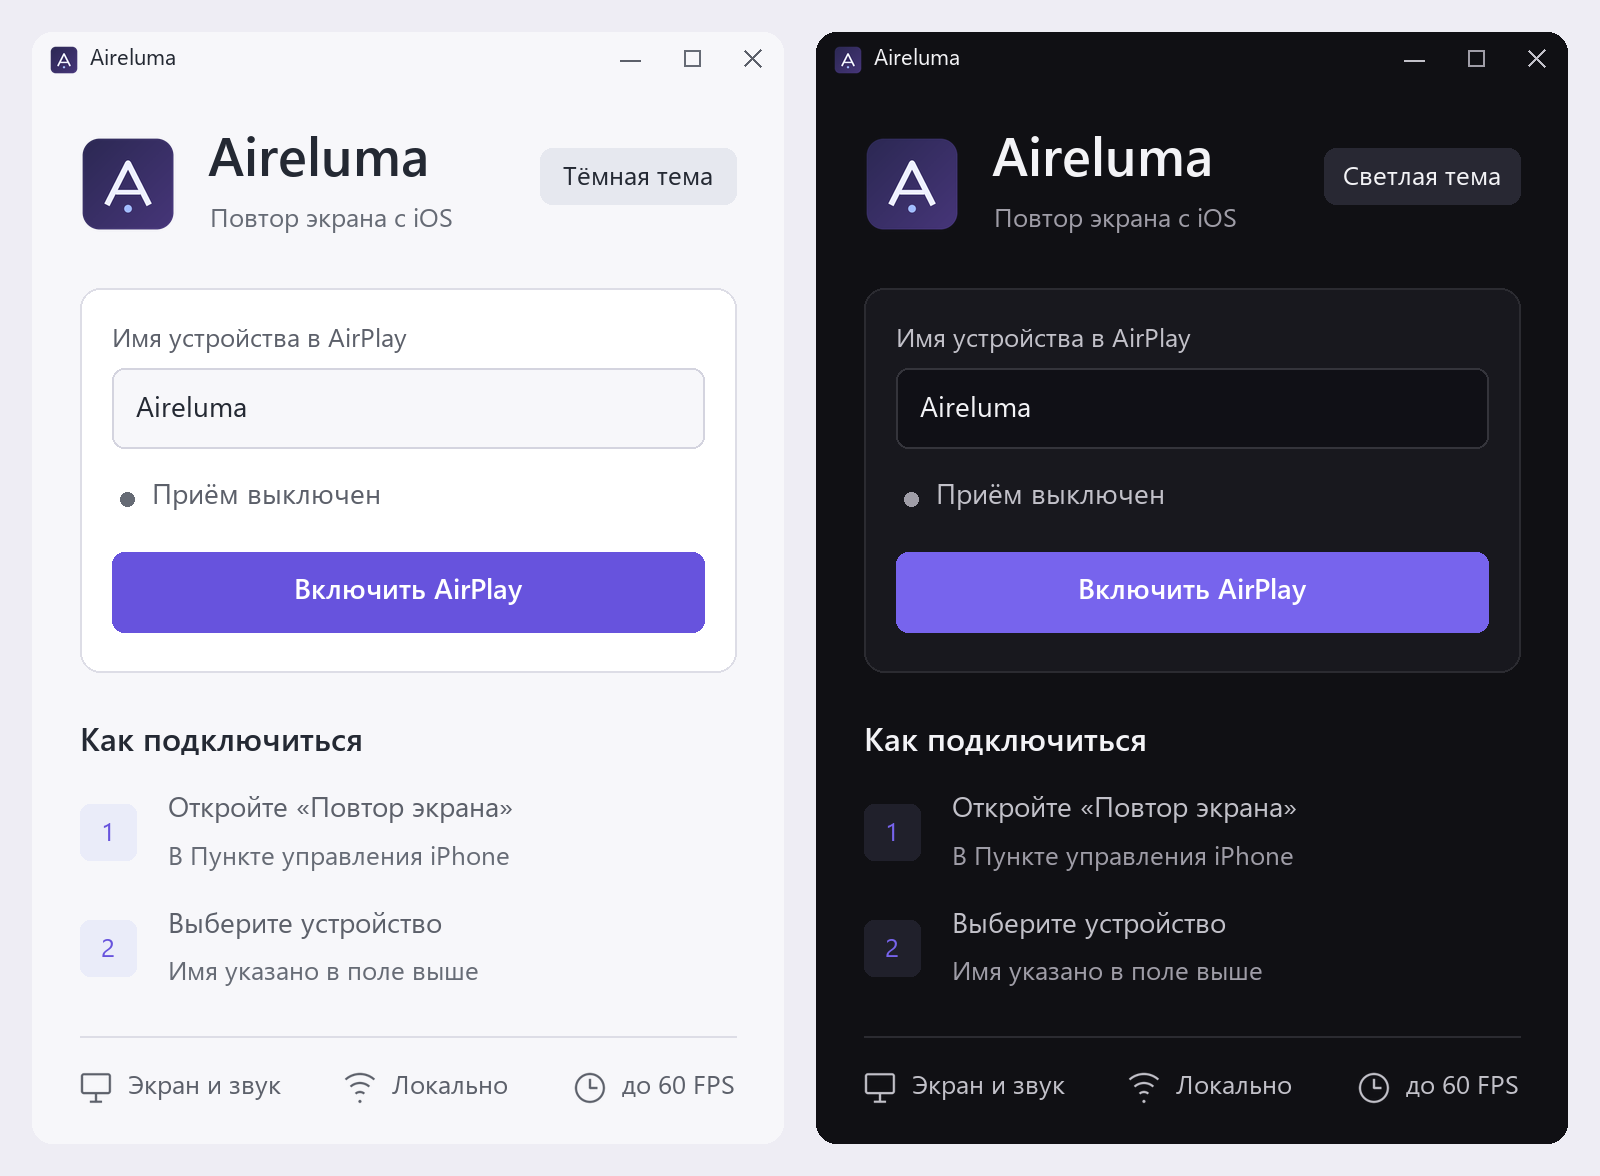
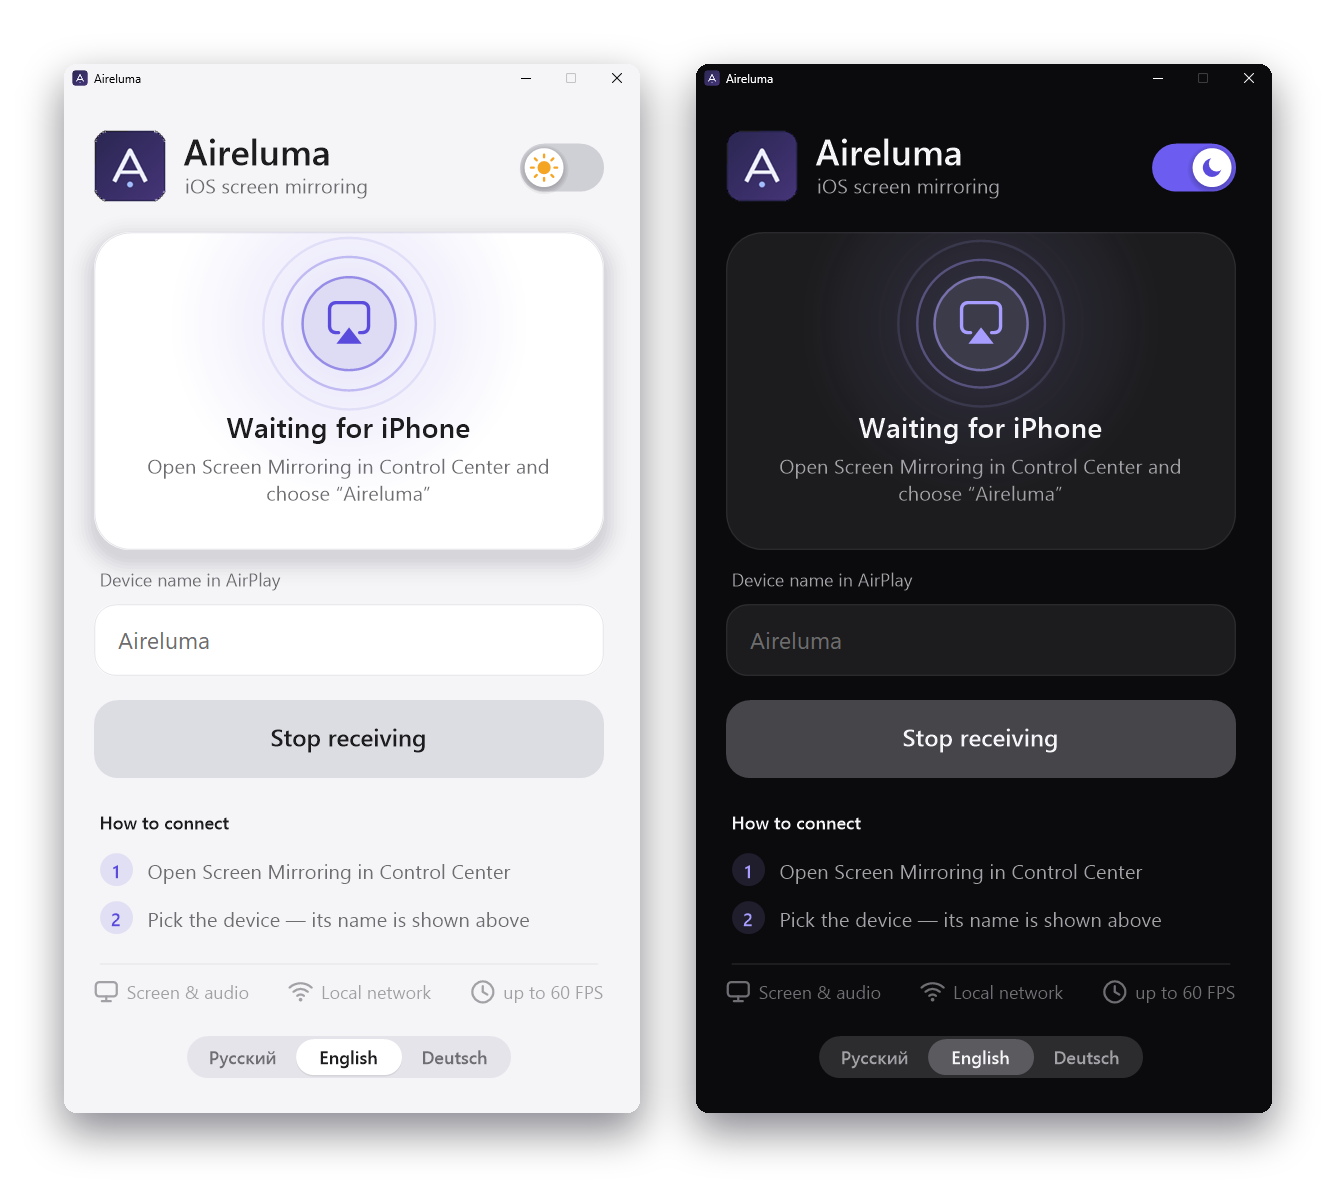
Update the README with screenshots and a GIF of the new interface
Replace the theme demo with real captures of the Windows interface: an animated tour (theme switch, language switch, starting reception) in English and Russian, side-by-side light and dark screenshots, and a three-language overview. Mention the language switch and the first-launch language rule in both READMEs. The old theme-switch-click.gif is removed since nothing references it. scripts/render-theme-demo.py still renders the old mock-up and would overwrite themes.png if it is run.

Changed region(s): [[0.0307, 0.0, 0.982, 0.9796], [0.3069, 0.8571, 0.3683, 0.8878]]

diff --git a/docs/README.ru.md b/docs/README.ru.md
@@ -9,13 +9,18 @@
 - Повтор экрана и звука iPhone по AirPlay в локальной сети.
 - Приём с запросом HEVC, разрешения до 4K и частоты до 60 FPS.
 - Светлая и тёмная темы с плавным переходом и сохранением выбора.
+- Интерфейс на русском, английском и немецком: язык переключается в окне (пока только в версии для Windows).
 - Работа в трее после закрытия окна на Windows.
 - Автоматическое окно просмотра: Direct3D12 на Windows, GStreamer на Linux.
 - Обычный установщик и удаление через параметры Windows.
 
 Фактическое разрешение, кодек и частоту выбирает iPhone. Результат зависит от устройства, сети и компьютера. Некоторые приложения ограничивают захват или используют отдельный маршрут AirPlay для видео; такой контент может не отображаться.
 
-<div align="center"><picture><source media="(prefers-reduced-motion: reduce)" srcset="images/themes.png"><img src="images/theme-switch-click.gif" alt="Наведение, нажатие и плавная смена темы" width="480"></picture></div>
+<div align="center"><picture><source media="(prefers-reduced-motion: reduce)" srcset="images/themes.ru.png"><img src="images/interface-tour.ru.gif" alt="Смена темы и языка, запуск приёма и ожидание iPhone" width="380"></picture></div>
+
+<details><summary>Обе темы рядом</summary><img src="images/themes.ru.png" alt="Светлая и тёмная темы" width="100%"></details>
+
+<details><summary>Три языка интерфейса</summary><img src="images/languages.png" alt="Интерфейс на английском, немецком и русском" width="100%"></details>
 
 ## Установка на Linux
 
@@ -30,7 +35,7 @@ sudo apt install ./Aireluma_0.8.3_amd64.deb
 ## Подключение
 
 1. Скачайте установщик из [последнего релиза](https://github.com/Anchoder/Aireluma/releases/latest).
-2. Установите Aireluma, запустите её и нажмите **«Включить AirPlay»**.
+2. Установите Aireluma, запустите её и нажмите **«Включить AirPlay»** (в английском интерфейсе — **Start AirPlay**, в немецком — **AirPlay starten**; язык выбирается внизу окна).
 3. Подключите iPhone и компьютер к одной локальной сети. Компьютер может использовать Ethernet.
 4. На iPhone откройте **Пункт управления → Повтор экрана** и выберите **Aireluma**.
 

diff --git a/README.md b/README.md
@@ -20,17 +20,20 @@ Aireluma brings iPhone screen mirroring and audio to Windows and Linux through A
 | Screen and audio | Mirror your iPhone with sound on your PC |
 | Up to 4K / 60 FPS | Request HEVC and a high-quality stream from your device |
 | Light and dark | Smooth light-to-dark transitions; your choice is remembered |
+| Three languages | English, Deutsch and Русский, switched in the window (Windows) |
 | Local network | Reception works on your LAN; a wired PC is supported |
 | System tray on Windows | Keep receiving after closing the control window |
 | Native playback | Direct3D12 on Windows; GStreamer video playback on Linux |
 
 Resolution, codec and frame rate are negotiated by the iPhone and depend on your device, network and computer. The requested maximum is not a guaranteed output mode.
 
-## Two themes. One compact interface.
+## Two themes, three languages. One compact interface.
 
-<div align="center"><picture><source media="(prefers-reduced-motion: reduce)" srcset="docs/images/themes.png"><img src="docs/images/theme-switch-click.gif" alt="Cursor click demonstrating the light and dark theme switch" width="480"></picture></div>
+<div align="center"><picture><source media="(prefers-reduced-motion: reduce)" srcset="docs/images/themes.png"><img src="docs/images/interface-tour.gif" alt="Switching the theme and the language, then starting reception and waiting for an iPhone" width="380"></picture></div>
 
 <details><summary>See both themes side by side</summary><img src="docs/images/themes.png" alt="Light and dark interface previews" width="100%"></details>
+
+<details><summary>See the three languages</summary><img src="docs/images/languages.png" alt="The interface in English, German and Russian" width="100%"></details>
 
 ## Install
 
@@ -47,11 +50,11 @@ Open Aireluma from your application menu. To uninstall: `sudo apt remove airelum
 ## Get connected
 
 1. Download **Aireluma-Setup.exe** from the [latest release](https://github.com/Anchoder/Aireluma/releases/latest) and install it.
-2. Open Aireluma and select **«Включить AirPlay»**.
+2. Open Aireluma and select **Start AirPlay** (**«Включить AirPlay»** in Russian, **AirPlay starten** in German).
 3. Connect your iPhone and PC to the same local network. The PC can use Ethernet.
 4. On your iPhone, open **Control Center → Screen Mirroring → Aireluma**.
 
-The current interface is in Russian. On Windows, closing the window keeps Aireluma in the tray; use the tray menu to exit. On Linux, closing the window stops reception and exits.
+On Windows the interface is available in English, German and Russian. Choose one with the switch at the bottom of the window; the first launch follows your Windows display language. The Linux interface is currently in Russian. On Windows, closing the window keeps Aireluma in the tray; use the tray menu to exit. On Linux, closing the window stops reception and exits.
 
 ## Before opening an issue
 
